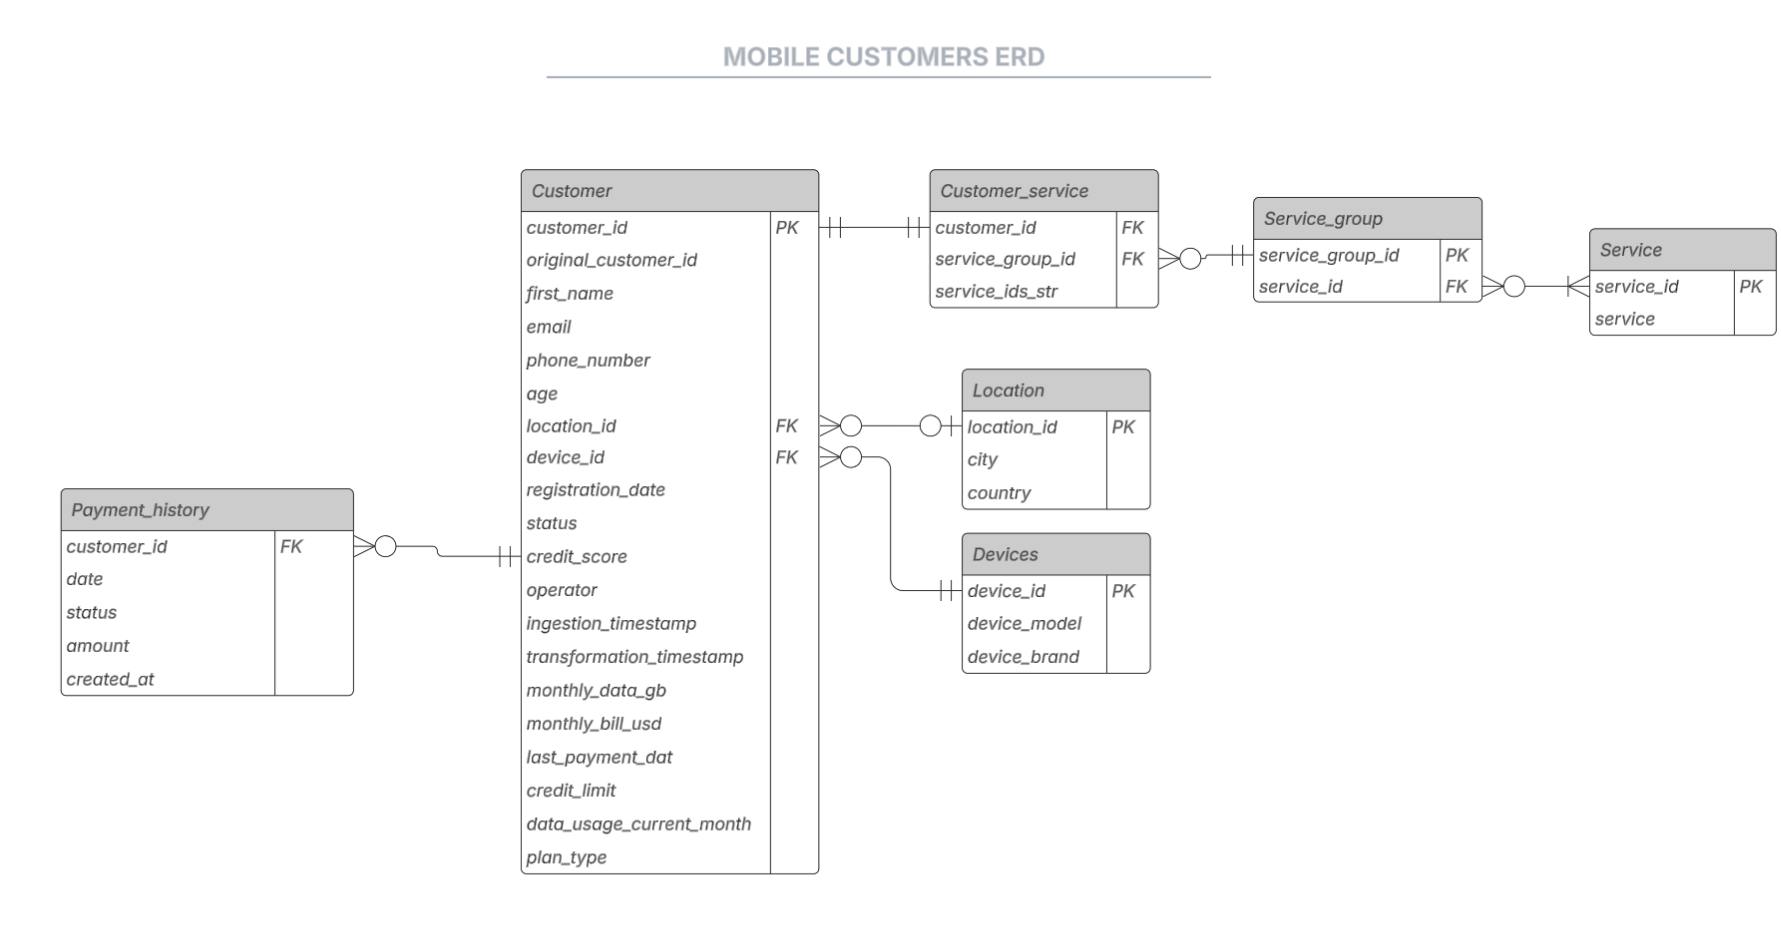
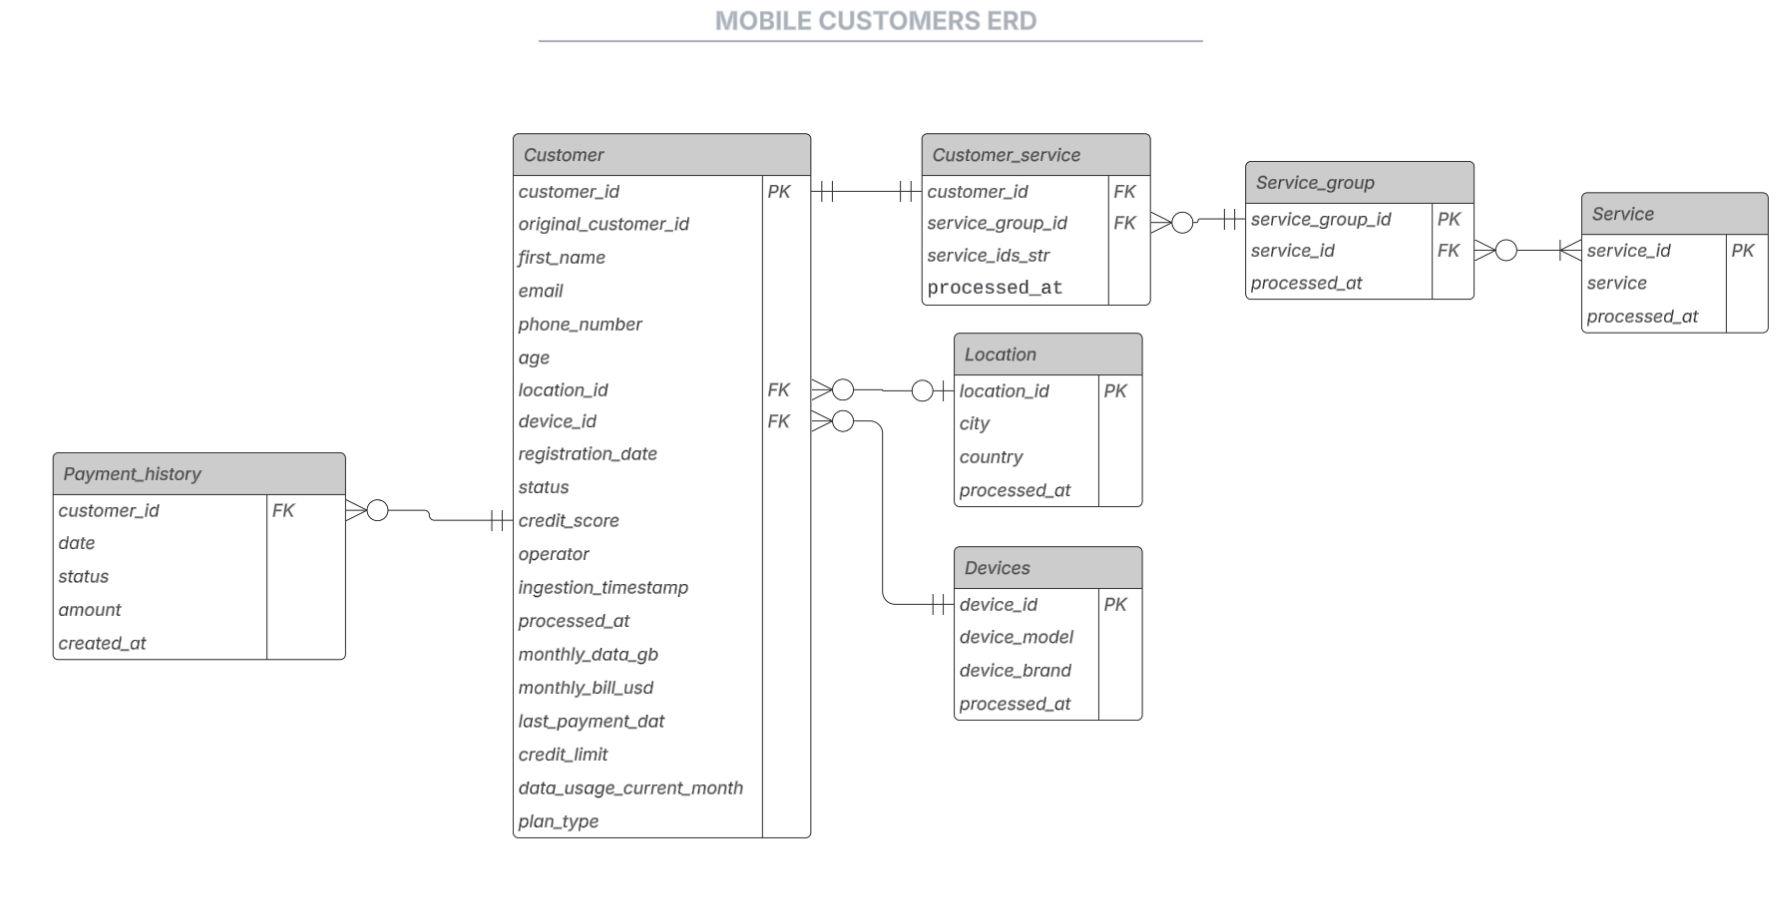
gold layer last details

Changed region(s): [[0.0309, 0.1217, 1.0, 0.9435], [0.3088, 0.0, 0.6794, 0.0913]]

diff --git a/dags/bronze_silver_gold_dag.py b/dags/bronze_silver_gold_dag.py
@@ -36,7 +36,7 @@ def converting_json_to_table_with_timestamp():
     engine.dispose()
 
 with DAG(
-    dag_id="download_bronze_silver_gold",
+    dag_id="bronze_silver_gold",
     start_date=datetime(2024, 1, 1),
     schedule_interval=None,
     catchup=False,

diff --git a/README.md b/README.md
@@ -6,6 +6,8 @@ This project implements a complete end-to-end ELT data pipeline using the Medall
 
 The dataset used is a messy JSON file stored in a public S3 bucket, containing information about mobile service customers. This pipeline ingests the data, transforms it through successive layers, and ultimately provides business-ready tables that answer real-world analytical questions.
 
+At the end of this readme file there are the **key business questions answered in the Gold Layer**, each linked to its corresponding dbt model
+
 **Technologies used:**
 
 - Docker
@@ -13,7 +15,6 @@ The dataset used is a messy JSON file stored in a public S3 bucket, containing i
 - Apache Airflow
 - dbt
 - Python
-- Git & GitHub
 
 ---
 
@@ -34,12 +35,13 @@ The dataset used is a messy JSON file stored in a public S3 bucket, containing i
 ```bash
 git clone https://github.com/ccordobab/qversity-data-2025-medellin-camilocordoba.git
 cd qversity-data-2025-medellin-camilocordoba
+```
 
 ### 2. Clone and setup environment:
 ```bash
 # Copy environment template
 cp env.example .env
-
+```
 ### 3. Start Docker Containers
 
 This project uses docker-compose to run:
@@ -52,14 +54,31 @@ Start all containers:
 
 ```bash
 docker compose up --build -d
-
+```
 ### Requirements
 
 - Docker & Docker Compose
 - Python 3.11+
 - dbt-postgres
 
+### Access Points
+Airflow UI: http://localhost:8080 (admin/admin)
+PostgreSQL: localhost:5432 (airflow/airflow)
+### Parametro de conexion a posgres
+Username: qversity-admin
+Password: qversity-admin
+Base de datos: qversity
+Servidor: localhost
+Puerto: 5432
 ---
+## Run pipeline
+**1. Run Environment** 
+```bash
+docker compose up -d
+```
+**2. trigger dag** Open Airflow at localhost:8080, trigger the bronze_silver_gold DAG manually
+---
+
 
 ## Bronze Layer – Raw Ingestion
 
